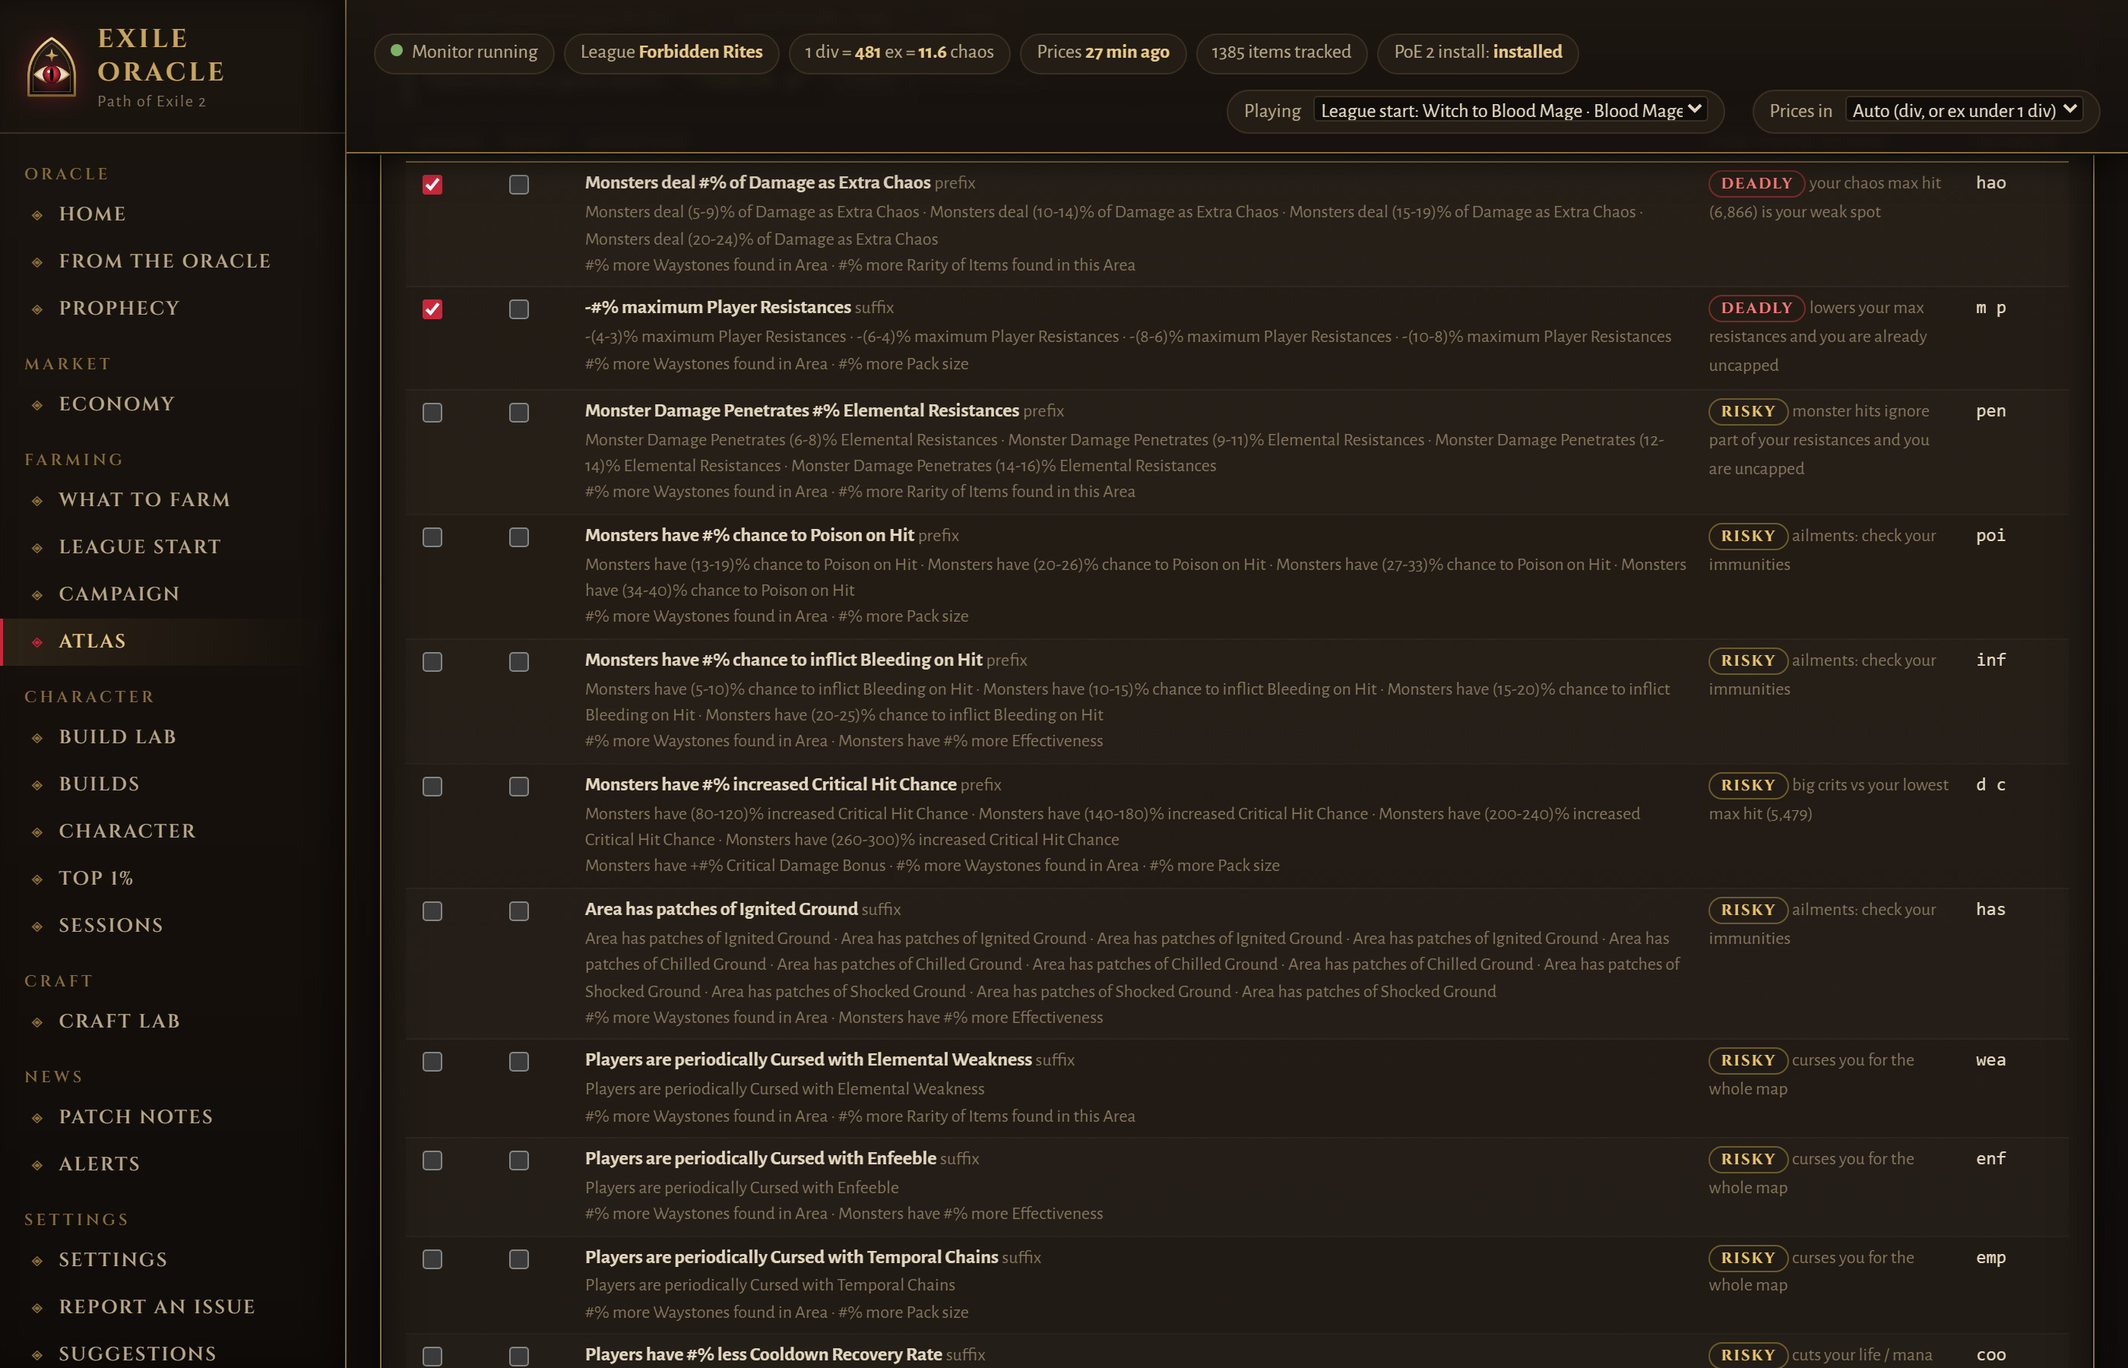
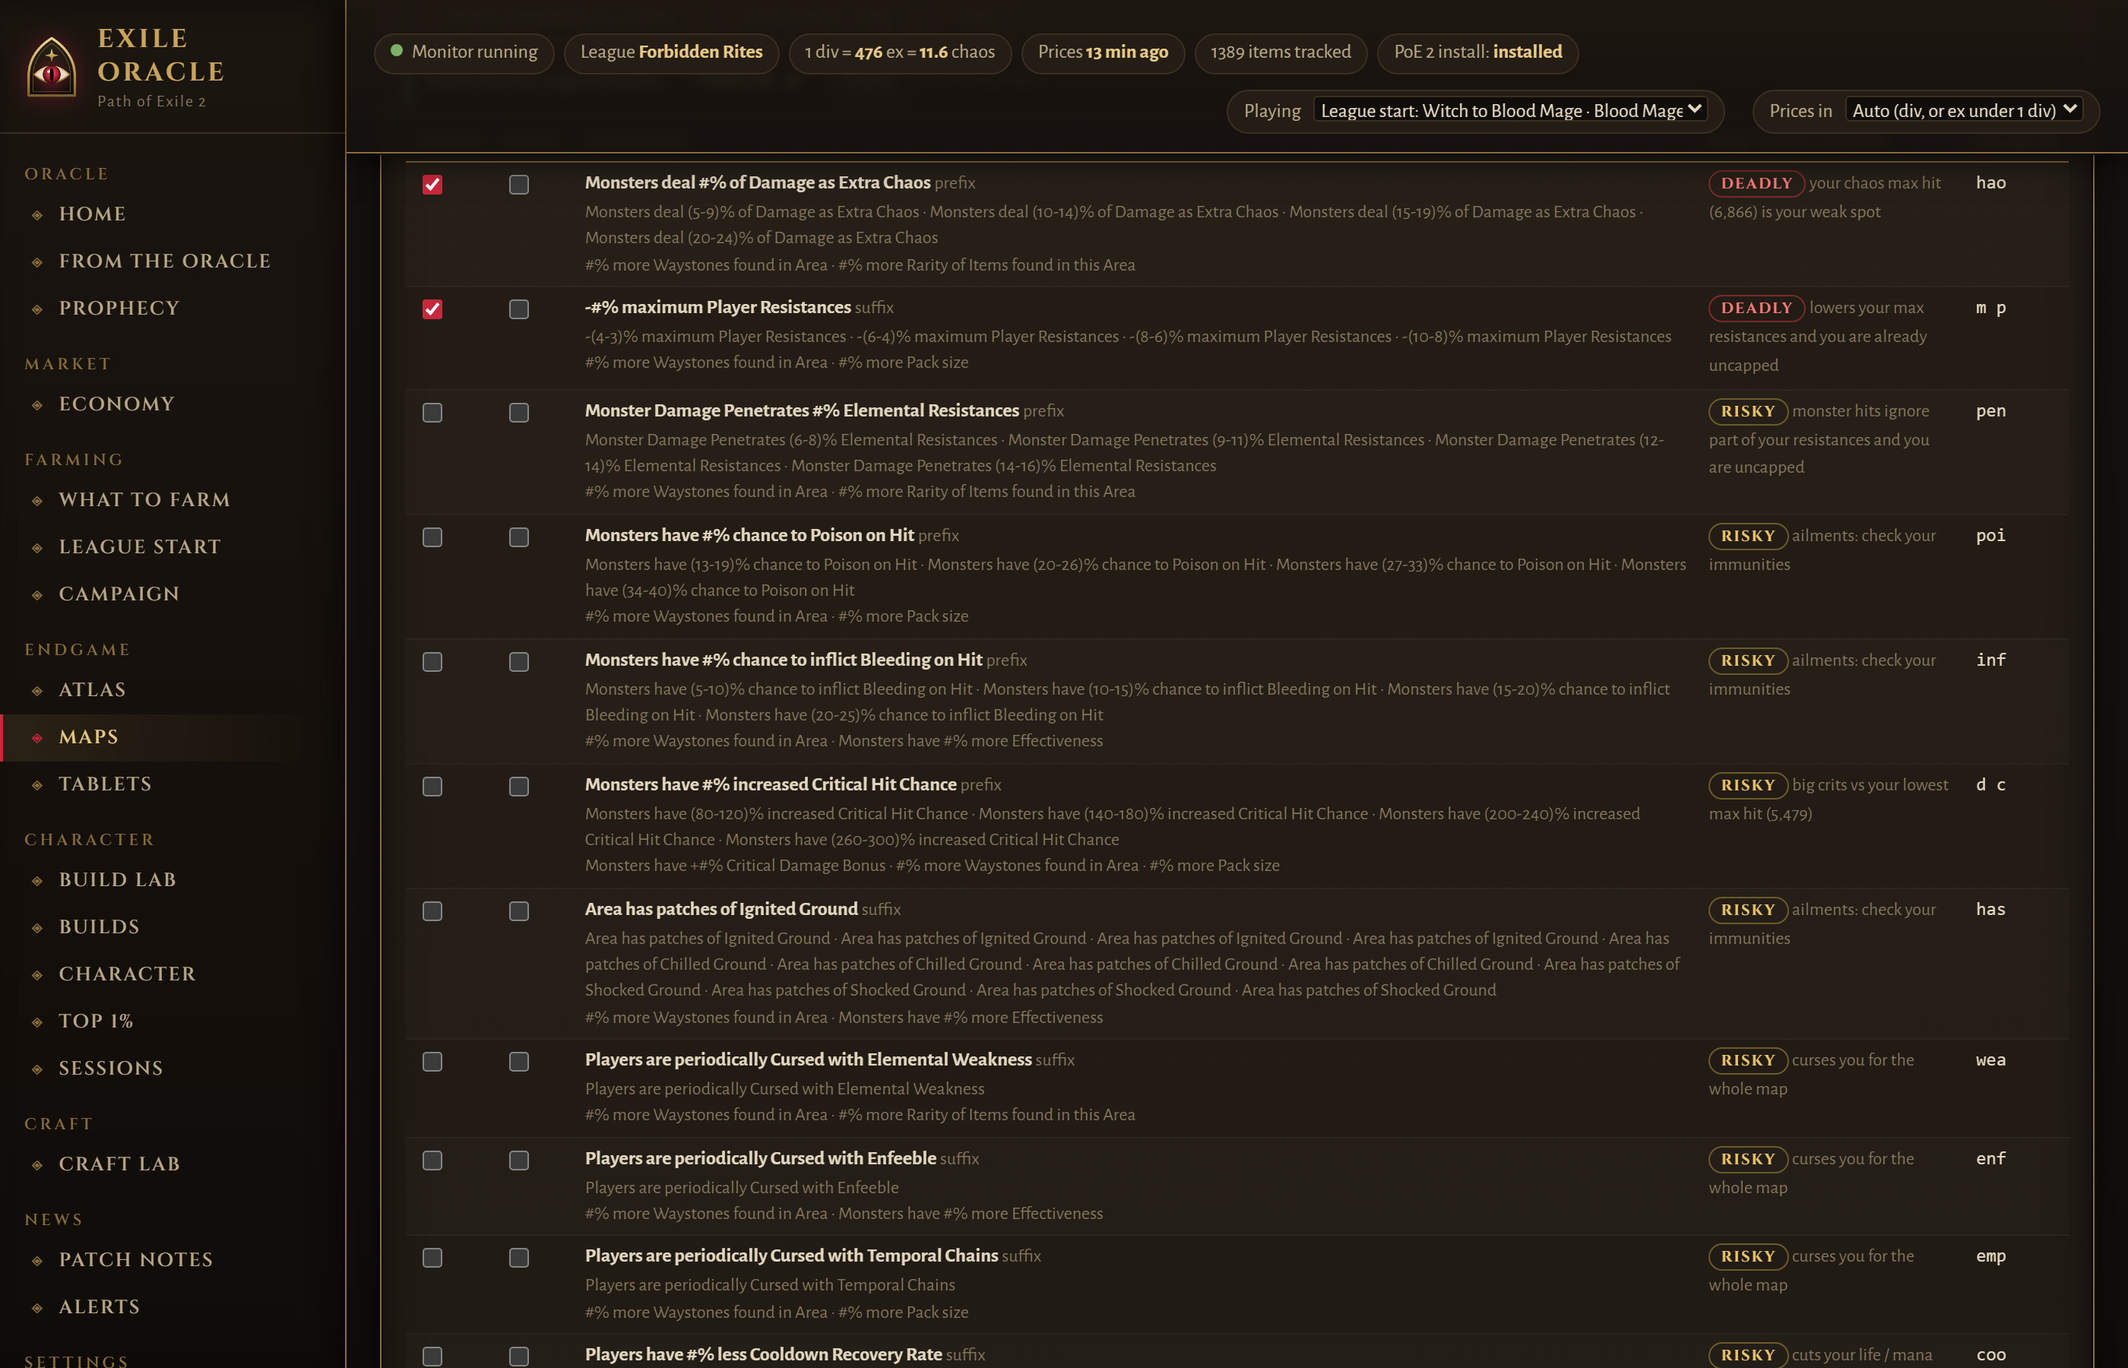
Endgame split into three pages: Atlas (tree + strategies), Maps (rolling, juicing, waystone modifiers), Tablets (types, pairing, tablet modifiers); rolling table fits at any width

diff --git a/dashboard/index.html b/dashboard/index.html
@@ -441,7 +441,10 @@ table.up td, table.up th { padding: 5px 7px; } table.up .pos { color: var(--eo-g
   <button data-tab="farm">What to farm</button>
   <button data-tab="league">League start</button>
   <button data-tab="campaign">Campaign</button>
+  <div class="ng">Endgame</div>
   <button data-tab="atlas">Atlas</button>
+  <button data-tab="maps">Maps</button>
+  <button data-tab="tablets">Tablets</button>
   <div class="ng">Character</div>
   <button data-tab="lab">Build Lab</button>
   <button data-tab="builds">Builds</button>
@@ -568,7 +571,7 @@ table.up td, table.up th { padding: 5px 7px; } table.up .pos { color: var(--eo-g
         <label class="small">Your name (optional) <input class="crin rp-name" maxlength="24" style="width:180px"></label></div>
       <div style="margin-top:10px;display:flex;gap:8px;align-items:center"><button class="btn rp-send" style="border-color:var(--eo-blood-hi)">Send suggestion</button><span class="small muted rp-msg"></span></div></div></section>
   <section id="atlas">
-    <div class="card"><div class="lab-head"><h2 style="margin:0">Atlas</h2><span class="small muted" id="atlassub"></span></div>
+    <div class="card"><div class="lab-head"><h2 style="margin:0">Atlas tree</h2><span class="small muted" id="atlassub"></span></div>
       <div class="sub">The atlas passive tree, read from your game files. Pick a strategy below to see its setup drawn here (gold: the points to take).</div>
       <div class="lab-tree" id="atlastree" style="height:520px;margin-top:10px"><div class="zbtn"><button data-z="1.4">+</button><button data-z="0.7">−</button><button data-z="fit">⤢</button></div>
         <div class="legend">hover a node for its name · Ctrl + scroll (or click the tree, then scroll) to zoom · drag to move</div></div></div>
@@ -576,6 +579,8 @@ table.up td, table.up th { padding: 5px 7px; } table.up .pos { color: var(--eo-g
       <div class="sub">Every farming strategy: what it pays per hour now and in the next league phase (our farming research at live exchange prices), how many atlas points its setup takes, and what to run it with. Click one to draw it on the tree.</div>
       <div id="asswitch" class="flag ok" style="margin:8px 0;display:none"></div>
       <table class="up" id="astable" style="margin-top:6px"></table><div id="asdetail"></div></div>
+  </section>
+  <section id="maps">
     <div class="grid2">
       <div class="card"><h2>Rolling waystones</h2><div class="sub">What each way of rolling costs today and what it adds on average (T16).</div><div id="arolling"></div></div>
       <div class="card"><h2>Juicing calculator</h2><div class="sub">What one map costs to set up vs what the strategy returns per map at this point of the league.</div>
@@ -588,9 +593,9 @@ table.up td, table.up th { padding: 5px 7px; } table.up .pos { color: var(--eo-g
           <span class="small">Maps per hour</span><input class="crin" id="roimph" type="number" min="1" step="1" placeholder="auto" style="width:80px">
         </div><div id="roiout" style="margin-top:10px"></div></div>
     </div>
-    <div class="card"><h2>Tablets</h2><div class="sub">Each tablet type, its own modifiers, and what to pair with each strategy. Tablets aren't exchange items, so price them with the overlay (Ctrl+D) in game.</div><div id="atablets"></div></div>
-    <div class="card"><div class="lab-head"><h2 style="margin:0">Map modifiers</h2><span style="flex:1"></span>
-      <div class="eo-seg seg" id="mmkind"><button data-k="waystone" class="on">Waystones</button><button data-k="tablet">Tablets</button></div>
+    <div id="mmhome-maps">
+    <div class="card"><div class="lab-head"><h2 style="margin:0" id="mmtitle">Waystone modifiers</h2><span style="flex:1"></span>
+      <div class="eo-seg seg" id="mmkind" style="display:none"><button data-k="waystone" class="on">Waystones</button><button data-k="tablet">Tablets</button></div>
       <label class="small">Rate for <select class="crin" id="mmbuild" style="min-width:260px"></select></label></div>
       <div class="sub">Every modifier from your game files. Rated for your build by Path of Building's numbers (deadly / risky / fine). Tick what to avoid or want and paste the search into your stash or vendor (Ctrl+F).</div>
       <div style="display:flex;gap:10px;align-items:center;flex-wrap:wrap;margin-top:10px">
@@ -599,6 +604,11 @@ table.up td, table.up th { padding: 5px 7px; } table.up .pos { color: var(--eo-g
       <div class="chips" id="mmquick"></div>
       <div id="mmout" class="flag ok" style="margin:10px 0;display:none"></div>
       <table class="up" id="mmtable" style="margin-top:6px"></table></div>
+    </div>
+  </section>
+  <section id="tablets">
+    <div class="card"><h2>Tablets</h2><div class="sub">Each tablet type, its own modifiers, and what to pair with each strategy. Tablets aren't exchange items, so price them with the overlay (Ctrl+D) in game.</div><div id="atablets"></div></div>
+    <div id="mmhome-tablets"></div>
   </section>
   <section id="character"><div id="charview"><div class="card empty">Pick a build on the Builds tab, or ask the Oracle to show one.</div></div></section>
   <section id="top1">
@@ -833,7 +843,9 @@ document.querySelectorAll('nav button').forEach(b => b.onclick = () => {
   if (b.dataset.tab === 'home') { loadHome(); loadHomeOracle(); loadOmen(); }
   if (b.dataset.tab === 'status') { loadConnectors(); loadLeagues(); }
   if (b.dataset.tab === 'lab') initLab();
-  if (b.dataset.tab === 'atlas') { loadAtlas(); loadMapMods(); loadAtlasPlan(); }
+  if (b.dataset.tab === 'atlas') { loadAtlas(); loadAtlasPlan(); }
+  if (b.dataset.tab === 'maps') { loadAtlasPlan(); mmPlace('waystone'); }
+  if (b.dataset.tab === 'tablets') { loadAtlasPlan(); mmPlace('tablet'); }
   if (b.dataset.tab === 'campaign') loadCampaign();
   if (b.dataset.tab === 'prophecy') loadProphecy();
   if (b.dataset.tab === 'economy') { loadLeagues(); loadOverview(); loadMovers(); loadMarket(); loadOracle($('#ordaysel').value); }
@@ -1197,9 +1209,13 @@ document.addEventListener('click', async e => {
 
 // ---------- ready-made questions on every page (click = copy, paste in your AI chat) ----------
 const PAGE_ASKS = {
+  maps: [['How should I roll my waystones?', 'How should I roll my waystones for my build and strategy, and is juicing worth it right now?'],
+         ['Which map mods should I avoid?', 'Which waystone modifiers are deadly for my build? Make me a search string that hides them.'],
+         ['Is juicing worth it for me?', 'With my build and the current prices, is juicing maps worth it? Use the juicing calculator numbers.']],
+  tablets: [['Which tablets for my strategy?', 'Which tablets and tablet modifiers should I run for my atlas strategy?'],
+            ['Make me a tablet search string', 'Make me an in-game search string that highlights the tablets worth running for my strategy.']],
   atlas: [['Which atlas strategy suits my build?', 'Which atlas farming strategy suits my build now, and draw its setup on the Atlas page.'],
-          ['How should I roll my waystones?', 'How should I roll my waystones for my build and strategy, and is juicing worth it right now?'],
-          ['Which map mods should I avoid?', 'Which waystone modifiers are deadly for my build? Make me a search string that hides them.']],
+          ['When should I switch strategy?', 'When in the league should I switch atlas strategy, and to what?']],
   prophecy: [['What will the market do this week?', 'Using the Oracle forecasts, what will the market do this week and what should I sell or hold?'],
              ['Plan my first 72 hours of 1.0', 'Plan my first 72 hours of the 1.0 league: what to farm, sell, keep and buy, hour by hour.'],
              ['Which farm suits my build now?', 'Which farming strategy suits my build right now, and what would let me run a better one?']],
@@ -1275,9 +1291,9 @@ async function loadAtlasPlan() {
   document.querySelectorAll('.asshow').forEach(b => b.onclick = () => showStrategy(AS.strategies[+b.dataset.i]));
   // rolling
   const r = await get('/api/atlas/rolling');
-  $('#arolling').innerHTML = `<table class="up"><tr><th>Method</th><th>Cost</th><th>When</th></tr>${r.methods.filter(m => m.when && m.method !== 'When re-rolling beats running').map(m => `<tr>
+  $('#arolling').innerHTML = `<table class="up" style="table-layout:fixed;width:100%"><colgroup><col style="width:38%"><col style="width:24%"><col style="width:38%"></colgroup><tr><th>Method</th><th>Cost</th><th>When</th></tr>${r.methods.filter(m => m.when && m.method !== 'When re-rolling beats running').map(m => `<tr>
     <td><b>${esc(m.method)}</b><div class="small muted">${esc(m.reward || '')}</div></td>
-    <td style="white-space:nowrap">${m.cost_ex != null ? `<b>${m.cost_ex} ex</b><div class="small muted">${m.spends.join(' + ') || 'free'}</div>` : `<span class="small muted">${esc(m.cost_note || '')}</span>`}</td>
+    <td style="overflow-wrap:anywhere">${m.cost_ex != null ? `<b style="white-space:nowrap">${m.cost_ex} ex</b><div class="small muted">${m.spends.join(' + ') || 'free'}</div>` : `<span class="small muted">${esc(m.cost_note || '')}</span>`}</td>
     <td class="small">${esc(m.when || '')}</td></tr>`).join('')}</table>`;
   // juicing calculator
   if (!$('#roistrat').options.length) {
@@ -1551,6 +1567,13 @@ function drawCpZone(z) {
 
 // ---------- Atlas: map modifiers + our own search strings (R15) ----------
 let MM = null, MMKIND = 'waystone';
+function mmPlace(kind) {
+  const card = $('#mmtitle').closest('.card');
+  $(kind === 'tablet' ? '#mmhome-tablets' : '#mmhome-maps').appendChild(card);
+  $('#mmtitle').textContent = kind === 'tablet' ? 'Tablet modifiers' : 'Waystone modifiers';
+  document.querySelectorAll('#mmkind button').forEach(b => b.classList.toggle('on', b.dataset.k === kind));
+  if (MMKIND !== kind || !MM) { MMKIND = kind; loadMapMods(); }
+}
 async function loadMapMods() {
   const sel = $('#mmbuild');
   if (!sel.options.length) {

diff --git a/server.py b/server.py
@@ -788,7 +788,7 @@ TOOLS = [
      'they took it. Researched for 0.5: Acts 5-6 arrive in 1.0; say so.',
      S(part=STR, tick=STR, on=BOOL), t_campaign),
     ('poe2_atlas',
-     'Atlas war room: action="strategies" (default): 11 farming strategies with div/hour now and next league phase '
+     'Endgame (the Atlas, Maps and Tablets pages): action="strategies" (default): 11 farming strategies with div/hour now and next league phase '
      '(our farming research at live prices), atlas points each setup takes, tablets and waystone setup, plus when to '
      'switch. action="setup" + strategy: its key atlas nodes and the connecting path (the player can draw it with '
      'Show on tree on the Atlas page). action="rolling": what each waystone rolling method costs today. '

diff --git a/poe2kit/mapmods.py b/poe2kit/mapmods.py
@@ -169,7 +169,7 @@ def rate(groups, stats):
 
 
 def overview(con=None, build_id=None, kind='waystone'):
-    """Everything the Atlas page shows: the mod groups (with tiers), each one's search token, and (with a build)
+    """Everything the Maps / Tablets pages show (modifier lists): the mod groups (with tiers), each one's search token, and (with a build)
     the danger rating for that build."""
     groups = mods(kind)
     toks = _tokens(kind)

diff --git a/README.md b/README.md
@@ -5,7 +5,7 @@
 A free, personal **Path of Exile 2 companion** for Windows and Linux:
 
 - **the Oracle:** a daily omen, a league timeline, price forecasts and patch prophecy, all from researched league history;
-- **the Atlas war room:** strategies, setups drawn on your atlas tree, map mods rated for your build;
+- **Endgame (Atlas, Maps, Tablets):** atlas strategies drawn on your tree, waystone rolling and juicing, map mods rated for your build, tablets;
 - **the campaign:** a rush guide, plus a route panel in game that follows your zone;
 - **your characters:** the Build Lab, a Top 1% check and upgrades;
 - **the economy:** live prices, what to farm, a league-start playbook;
@@ -95,7 +95,7 @@ What to sell, hold or buy at this point of the league, from three launches.
 
 ![The Oracle's market timing](docs/screenshots/oracle.jpg)
 
-### Atlas war room (new in 0.6.0)
+### Endgame: Atlas (new in 0.6.0)
 - The atlas tree, read from your own game files.
 - **Show on tree** draws a strategy's whole setup: its key nodes and the path to them.
 
@@ -105,13 +105,19 @@ Eleven strategies with div per hour now and in the next league phase, the atlas 
 
 ![Atlas strategies](docs/screenshots/atlas-strategies.jpg)
 
-Waystone rolling at live prices, a juicing calculator and every tablet type.
+### Endgame: Maps (new in 0.6.0)
+Waystone rolling at live prices, and a juicing calculator: what a map costs to set up vs what your strategy returns.
 
 ![Rolling and the juicing calculator](docs/screenshots/atlas-roi.jpg)
 
 Every waystone mod rated deadly / risky / fine for **your** build, with our own in-game search strings.
 
 ![Map modifiers for your build](docs/screenshots/atlas-mods.jpg)
+
+### Endgame: Tablets (new in 0.6.0)
+Every tablet type with its own modifiers, what to pair with each strategy, and tablet modifiers with search strings.
+
+![Tablets](docs/screenshots/tablets.jpg)
 
 ### Campaign + the route panel (new in 0.6.0)
 The fastest route act by act, every permanent reward with a checklist, the trials, and flask / boots / life breakpoints.

diff --git a/research/README.md b/research/README.md
@@ -19,7 +19,7 @@ which are labelled and checked against the data.
 | Farming returns | [farming/farming-returns.md](farming/farming-returns.md) | Divines per hour for 22 strategies by league phase, with build requirements | Farming oracle, Atlas strategies |
 | Chase uniques | [uniques/unique-history.md](uniques/unique-history.md) | Mageblood, Headhunter, Temporalis and 45 more, by league day over five leagues | Prophecy: chase uniques |
 | PoE 1 history | [poe1-history/poe1-history.md](poe1-history/poe1-history.md) | 20+ PoE 1 leagues as labelled analogy: league-economy patterns, checked against PoE 2 | Oracle notes |
-| Atlas | [atlas/atlas.md](atlas/atlas.md) | The atlas tree from the game files, 11 strategies with key nodes, waystone mod danger and reward, rolling, tablets | Atlas war room, waystone check |
+| Atlas | [atlas/atlas.md](atlas/atlas.md) | The atlas tree from the game files, 11 strategies with key nodes, waystone mod danger and reward, rolling, tablets | Atlas, Maps and Tablets pages, waystone check |
 | Campaign | [campaign/campaign.md](campaign/campaign.md) | The rush route, every permanent reward, trials, breakpoints, times | Campaign page, route panel |
 | Bosses | [bosses/boss-readiness.md](bosses/boss-readiness.md) | What each pinnacle boss needs (life, resistances, damage) | Build Lab boss readiness |
 | Drop rates | [drop-rates.md](drop-rates.md) | What the public web knows about PoE 2 drop rates | Farming page |

diff --git a/CLAUDE-GUIDE.md b/CLAUDE-GUIDE.md
@@ -56,7 +56,8 @@ for 15 minutes).
 
 **Atlas and maps**
 - "Which atlas strategy suits my build right now? Draw it on the Atlas page."
-- "How should I roll my waystones, and is juicing worth it?"
+- "How should I roll my waystones, and is juicing worth it?" (Maps page)
+- "Which tablets should I run for my strategy?" (Tablets page)
 - "Which waystone mods are deadly for my build? Make me a search string that hides them."
 - In game: **Ctrl+D on a waystone** rates every mod for your build.
 
@@ -153,7 +154,7 @@ The same tools work in Claude, ChatGPT / Codex and Gemini CLI.
 | `poe2_levelling` | Review a levelling route for a vault build BEFORE it goes into the in-game Build Planner (the automatic order is a rule of thumb; plans stay a plain endgame path until you switch the route on). |
 | `poe2_lab` | The Build Lab tab on the dashboard |
 | `poe2_campaign` | Campaign rush |
-| `poe2_atlas` | Atlas war room |
+| `poe2_atlas` | Endgame (the Atlas, Maps and Tablets pages) |
 | `poe2_oracle` | The Oracle |
 | `poe2_doctor` | Something in the toolkit is broken or acting odd (overlay, prices, dashboard, Build Planner, Path of Building, Claude connection)? Call this FIRST |
 | `poe2_from_overlay` | Items the player sent from the in-game price-check overlay (its Ask the Oracle button, called Ask Claude before 0.4.0), newest first |

diff --git a/release/README-friends.md b/release/README-friends.md
@@ -3,7 +3,7 @@
 A personal Path of Exile 2 companion. It runs on your own PC, in its own window:
 
 - **the Oracle:** a daily omen, price forecasts, patch prophecy and a league timeline;
-- **the Atlas war room:** strategies drawn on your atlas tree, map mods rated for your build;
+- **Endgame (Atlas, Maps, Tablets):** atlas strategies drawn on your tree, waystone rolling and map mods rated for your build, tablets;
 - **the campaign:** a rush guide and a route panel in game;
 - **your characters:** the Build Lab, a Top 1% check;
 - **the economy:** live prices, what to farm, the league-start playbook;
